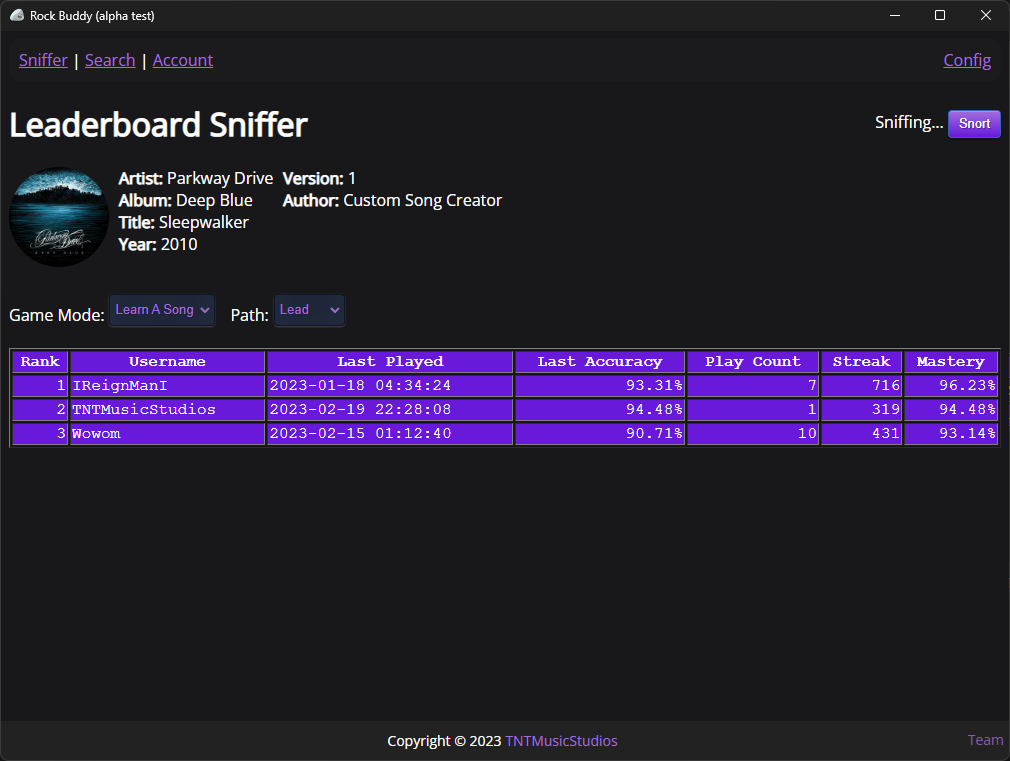
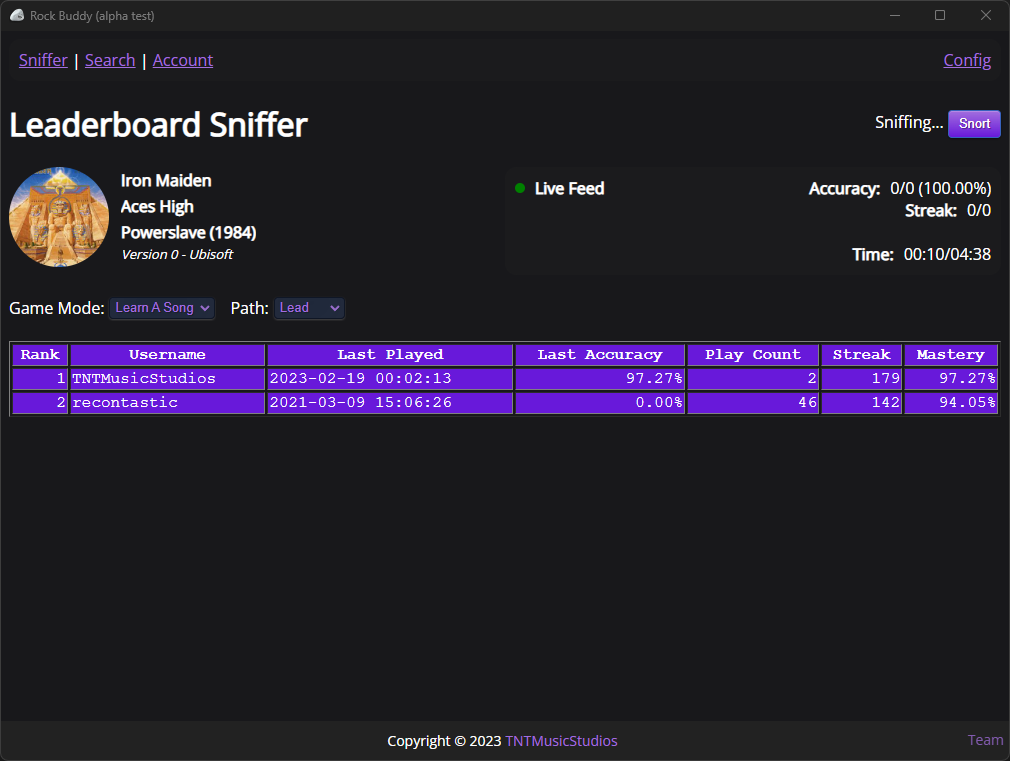
Upodated spacing of display and preview image

diff --git a/src/sniffer/sniffer.html b/src/sniffer/sniffer.html
@@ -9,13 +9,13 @@
 </head>
 
 <body>
-  <div class="navtop">
+  <div class="navtop" style="min-width: 800px;">
     <a href="../sniffer/sniffer.html">Sniffer</a> |
     <a href="../search/search.html">Search</a> |
     <a href="../account/account.html">Account</a>
     <a href="../config/config.html" style="float: right;">Config</a>
   </div>
-  <div style="display: flex; flex-direction: row; align-items: center; width: 100%;">
+  <div style="display: flex; flex-direction: row; align-items: center; width: 100%; min-width: 800px;">
     <h1>Leaderboard Sniffer</h1>
     <div class="ready" style="margin-left: auto; display: none;">
       <div class="status" style="display: inline-block;">
@@ -40,7 +40,7 @@
   <div class="ready" style="display: none;">
     <div id="leaderboard_header" style="display: none;">
       <div style="display: flex; flex-direction: row; width: 100%;">
-        <div style="display: flex; flex-direction: row; gap: 10px; width: 50%">
+        <div style="display: flex; flex-direction: row; gap: 10px; width: 50%; min-width: 400px;">
           <div>
             <img class="coveralbum" id="album_art">
           </div>
@@ -57,7 +57,7 @@
             </div>
           </div>
         </div>
-        <div class="live-data" style="display: flex; flex-direction: row; width: 50%">
+        <div class="live-data" style="display: flex; flex-direction: row; width: 50%; min-width: 400px;">
           <div style="display:flex; flex-direction: row; width: 50%; align-items: center; align-self: flex-start;">
             <div class="circle" id="live_feed_icon" style="margin-right: 10px;"></div>
             <div><b>Live Feed</b></div>
@@ -98,7 +98,7 @@
       </div>
     </div>
     <br>
-    <div id="leaderboard_data" style="display: none;">
+    <div id="leaderboard_data" style="display: none; min-width: 800px;">
       <p>And this is where I would put my score... <em>IF I HAD ONE!</em></p>
     </div>
   </div>
